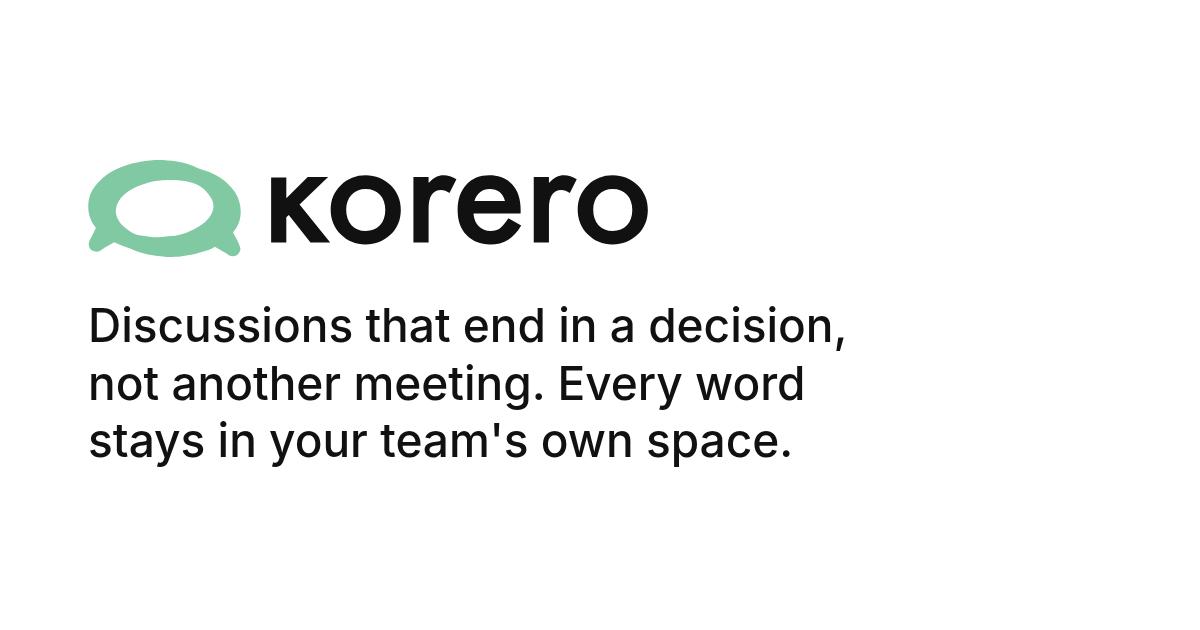
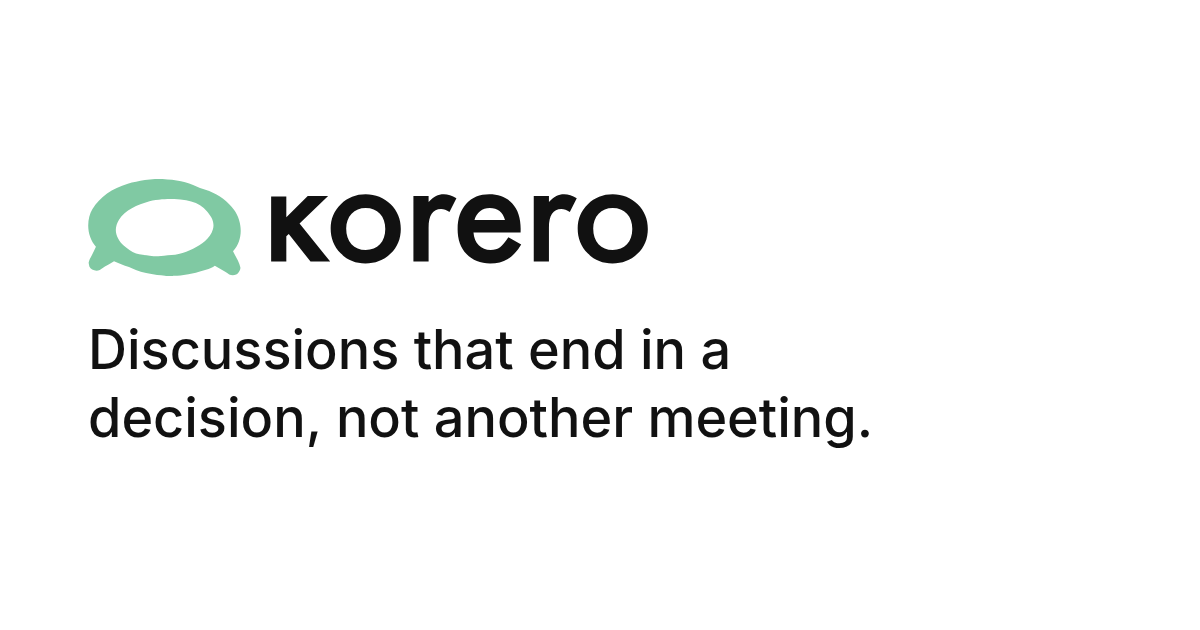
Shorten the share line

Changed region(s): [[0.0617, 0.4825, 0.74, 0.754], [0.0617, 0.2413, 0.555, 0.4524]]

diff --git a/index.html b/index.html
@@ -4,14 +4,14 @@
     <meta charset="UTF-8" />
     <link rel="icon" href="/favicon.ico" />
     <meta name="viewport" content="width=device-width, initial-scale=1.0" />
-    <meta name="description" content="Discussions that end in a decision, not another meeting. Every word stays in your team&#39;s own space." />
+    <meta name="description" content="Discussions that end in a decision, not another meeting." />
     <meta property="og:type" content="website" />
     <meta property="og:title" content="Korero" />
-    <meta property="og:description" content="Discussions that end in a decision, not another meeting. Every word stays in your team&#39;s own space." />
+    <meta property="og:description" content="Discussions that end in a decision, not another meeting." />
     <meta property="og:image" content="https://cloud.koreroapp.com/og.png" />
     <meta property="og:image:width" content="1200" />
     <meta property="og:image:height" content="630" />
-    <meta property="og:image:alt" content="Korero: Discussions that end in a decision, not another meeting. Every word stays in your team&#39;s own space." />
+    <meta property="og:image:alt" content="Korero: Discussions that end in a decision, not another meeting." />
     <meta name="twitter:card" content="summary_large_image" />
     <title>Korero - Communicate effectively with your team</title>
   </head>
